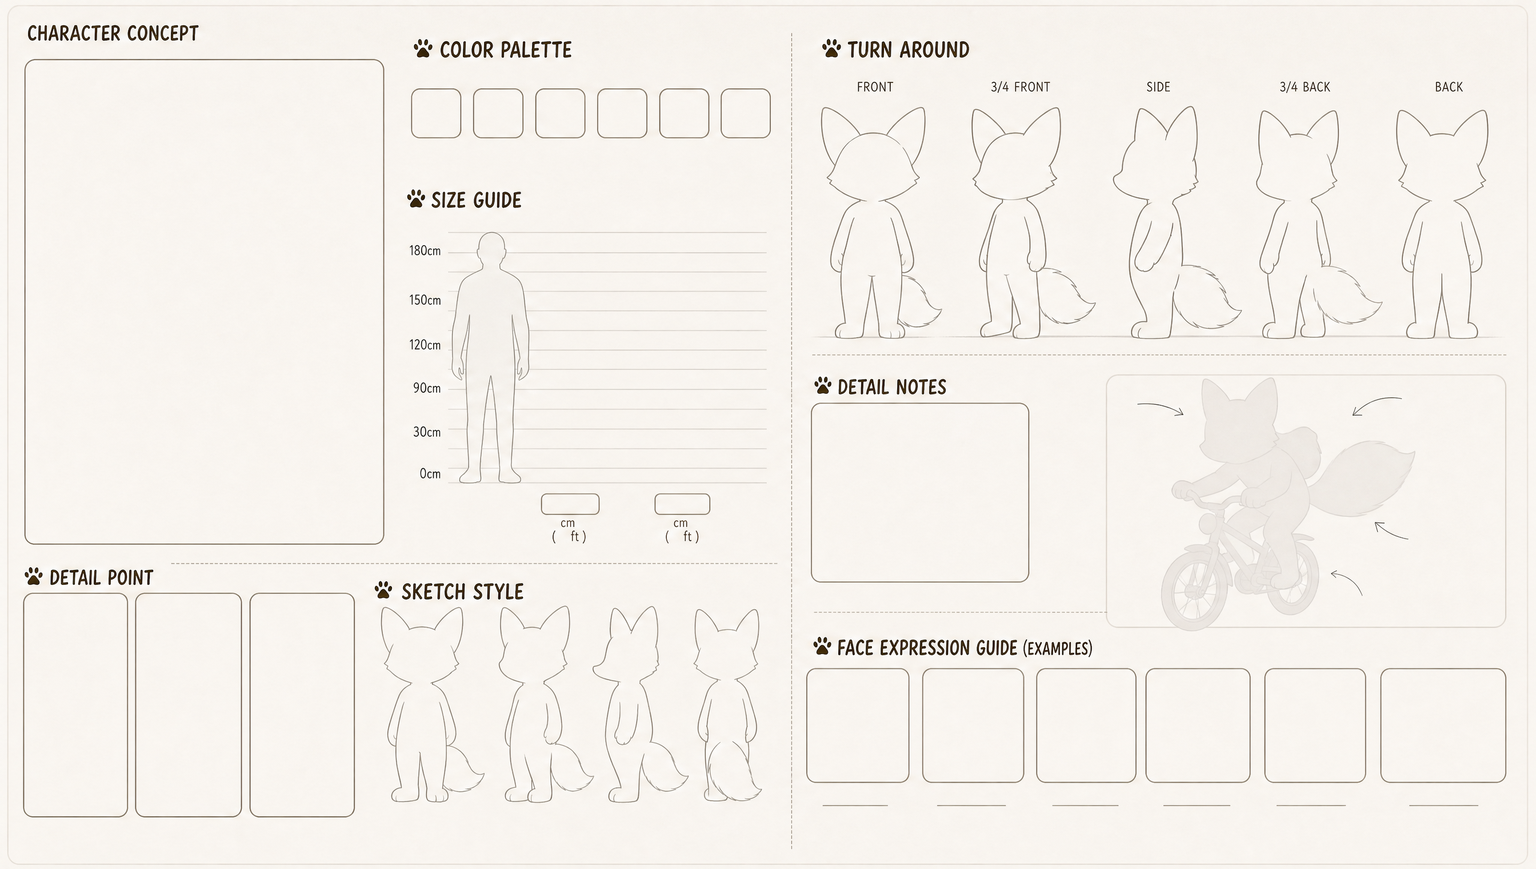
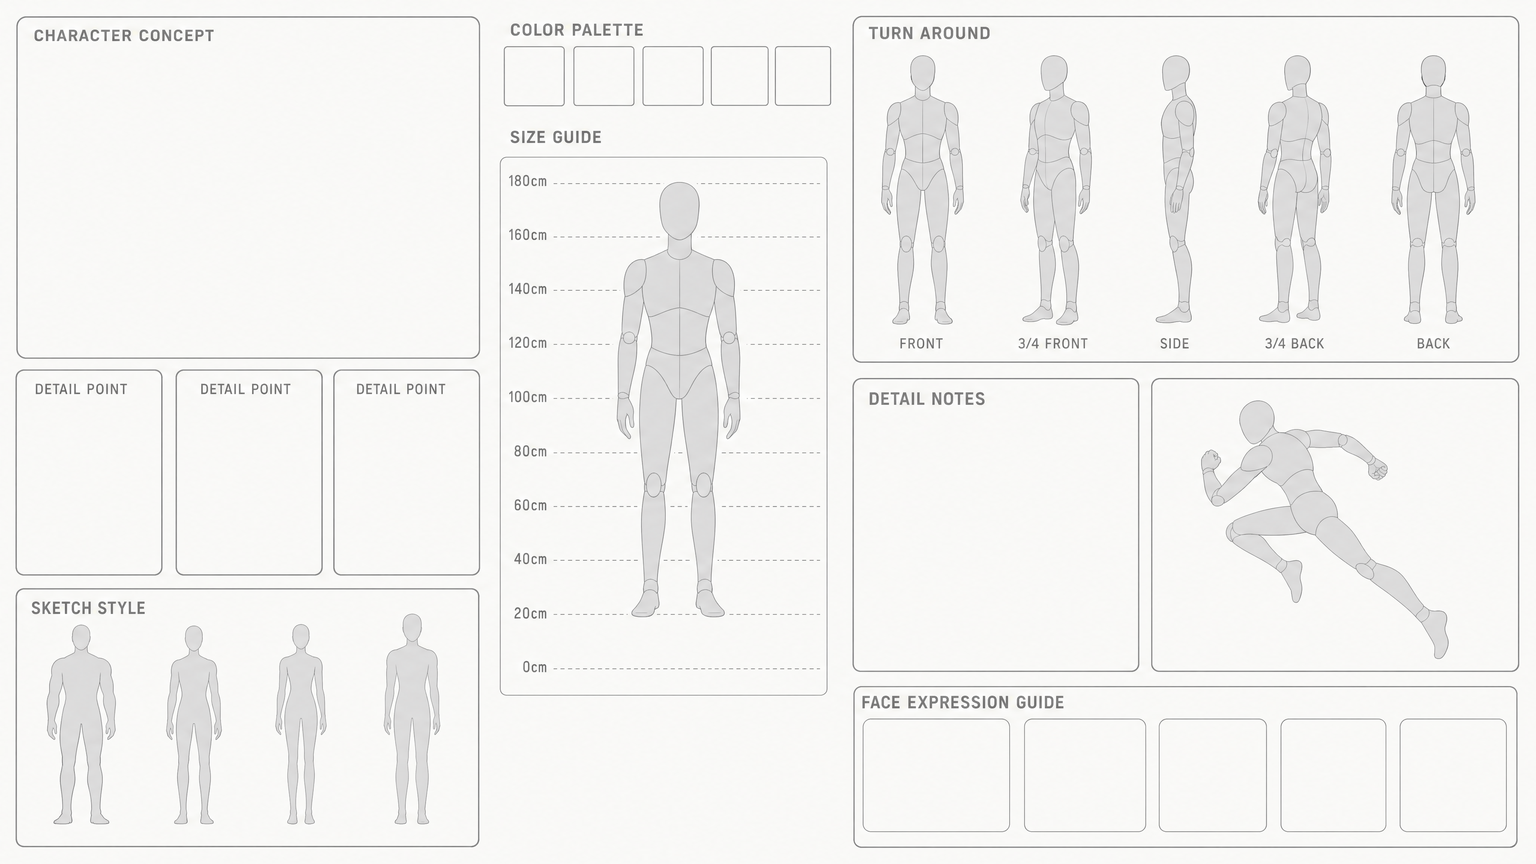
feat(artist): style-neutral character template v2 (de-anime the turnaround)
캐릭터 턴어라운드가 애니풍으로 치우치는 1순위 원인이던 템플릿의 스타일 앵커
(치비 여우 마스코트·발바닥 아이콘·손글씨 폰트)를 제거 — GPT Image I2I 로
사용자가 제작한 스타일 중립판(목각 마네킹 + 기술 산세리프)으로 교체.

- public/character-template.png: 3840×2160 원본 → 1536×864 리사이즈 교체
- portrait.ts: CHARACTER CONCEPT 박스 크롭 비율 재실측(레이아웃 변경)
  x 0.0135..0.3094 / y 0.0611..0.4102 (제목 텍스트 제외, 테두리 안쪽) —
  빈 템플릿 크롭 미리보기로 영역 검증
- docs/character-template-restyle-prompts.md: 진단·프롬프트·핸드오프 기록

생성 프롬프트가 열거하는 섹션 명단(character concept/color palette/size guide/
turnaround/detail notes/sketch style/face expression guide)은 v2 에 전부 유지됨.

diff --git a/src/lib/artist/portrait.ts b/src/lib/artist/portrait.ts
@@ -2,16 +2,19 @@
 //
 // 사람 캐릭터의 view_main 은 캐릭터 템플릿(public/character-template.png) 레이아웃을 채운
 // 와이드 모델시트다. 좌상단 CHARACTER CONCEPT 박스 내부를 크롭해 카드/칩용 대표 포트레이트로 쓴다.
-// 비율은 실제 생성 시트(1536×864) 실측 — 박스 내부(테두리 제외) x 34..372, y 66..530.
 // 시트가 템플릿 레이아웃을 유지하므로(I2I 프롬프트가 박스 고정 지시) 상대 좌표는 안정적이다.
+//
+// ⚠️ 템플릿을 교체하면 이 비율도 재실측할 것 — 좌표는 템플릿 v2(스타일 중립 마네킹판,
+//   2026-07-12) 원본 3840×2160 실측: 박스 테두리 x 41..1199 / y 41..896, 제목 텍스트 y 74..102
+//   → 내부(제목 아래) x 52..1188, y 132..886.
 import sharp from 'sharp'
 
 /** CHARACTER CONCEPT 박스 내부의 상대 좌표 (시트 W/H 에 대한 비율). */
 export const TURNAROUND_PORTRAIT_REGION = {
-  x0: 0.022,
-  y0: 0.076,
-  x1: 0.242,
-  y1: 0.613,
+  x0: 0.0135,
+  y0: 0.0611,
+  x1: 0.3094,
+  y1: 0.4102,
 } as const
 
 /**

diff --git a/docs/character-template-restyle-prompts.md b/docs/character-template-restyle-prompts.md
@@ -1,0 +1,64 @@
+# 캐릭터 템플릿 스타일 중립화 — GPT Image 프롬프트
+
+> 2026-07-12. 배경: 캐릭터 턴어라운드가 애니풍으로 치우치는 원인 진단 결과,
+> `public/character-template.png`의 치비 여우 마스코트·발바닥 아이콘·손글씨 폰트가
+> 강한 스타일 앵커로 작용(1순위). 템플릿을 스타일 중립(레이아웃 전용)으로 교체한다.
+>
+> **I2I 권장** — 레이아웃이 보존돼야 (1) 서버 포트레이트 크롭 상대좌표
+> (`src/lib/artist/portrait.ts`의 실측 비율)와 (2) 생성 프롬프트의 섹션 명단
+> (`buildCharacterTurnaroundPrompt`)이 그대로 유효하다. T2I는 레이아웃이 새로 나와
+> 크롭 좌표 재실측 필요(가능은 함 — Claude가 처리).
+
+---
+
+## 🅰️ I2I 프롬프트 (기존 템플릿 이미지 업로드 + 아래 프롬프트) — 추천
+
+```
+Restyle this character reference-sheet template into a completely style-neutral, professional studio version. This is a LAYOUT-ONLY edit — keep the exact same composition.
+
+KEEP (do not move or resize anything):
+- The exact layout, aspect ratio, and position/size of every section box, divider and panel
+- The same section headings with the same wording: CHARACTER CONCEPT, COLOR PALETTE, SIZE GUIDE, TURN AROUND (FRONT / 3/4 FRONT / SIDE / 3/4 BACK / BACK), DETAIL POINT, SKETCH STYLE, DETAIL NOTES, FACE EXPRESSION GUIDE
+- The off-white paper background and thin light-gray line borders
+- The neutral human silhouette in the SIZE GUIDE
+
+REPLACE:
+- Every cute fox mascot placeholder figure → a featureless neutral-gray human artist's mannequin silhouette (like a wooden drawing mannequin), in the SAME pose, position and size as the figure it replaces — turnaround row (front, 3/4 front, side, 3/4 back, back), sketch-style row, and the bicycle illustration (make it a mannequin in the same dynamic riding pose)
+- All paw-print icons next to headings → remove them (plain headings, no icons)
+- The rounded handwritten/comic font → a clean, neutral, technical sans-serif in uppercase, like an industrial spec sheet
+
+REMOVE:
+- Any cute, kawaii, chibi, anime or mascot styling, and any decorative doodles
+
+The result must be a monochrome (light gray on off-white), style-agnostic technical template that imposes NO art style on whoever fills it in. No added text, no new sections, no logos.
+```
+
+---
+
+## 🅱️ T2I 프롬프트 (백지 생성 — 레이아웃 달라짐, 크롭 좌표 재실측 필요)
+
+```
+A professional, style-neutral character model-sheet template, landscape 16:9, flat vector-style graphic design on an off-white paper background with thin light-gray line borders. Monochrome, no colors except light gray.
+
+Layout: left top — a large rounded rectangle panel titled CHARACTER CONCEPT; left bottom — three small vertical panels titled DETAIL POINT and a row of four featureless gray human mannequin silhouettes titled SKETCH STYLE. Center top — six small empty swatch squares titled COLOR PALETTE, and below it a SIZE GUIDE with horizontal height lines (180cm to 0cm) and one neutral human silhouette. Right top — a row of five featureless neutral-gray artist's mannequin silhouettes titled TURN AROUND, labeled FRONT, 3/4 FRONT, SIDE, 3/4 BACK, BACK. Right middle — an empty rounded panel titled DETAIL NOTES next to a panel with a mannequin in a dynamic action pose. Right bottom — six empty rounded squares in a row titled FACE EXPRESSION GUIDE.
+
+Typography: clean technical uppercase sans-serif, like an industrial specification sheet. No icons, no mascots, no decorations, no anime or chibi styling, no watermark. The template must impose no art style — purely structural.
+```
+
+---
+
+## 생성 후 핸드오프 (Claude 작업)
+
+1. 결과 파일 경로 전달 (예: `/home/user/Downloads/새템플릿.png`)
+2. Claude: 컨셉 박스 **크롭 좌표 검증/재실측** → 필요 시 `src/lib/artist/portrait.ts` 비율 갱신
+3. `public/character-template.png` 교체(리사이즈 포함) + 커밋·푸시
+4. (옵션 B, 권장) `buildCharacterTurnaroundPrompt`의 `"clean line art"` 제거 +
+   `"do NOT use anime/chibi/mascot style"` + design_tokens 스타일 강조 — 템플릿 교체와 병행 시 효과 최대
+
+## 참고
+
+- ChatGPT가 3:2(1536×1024)로 출력해 비율이 살짝 달라져도 OK — 크롭은 상대좌표라
+  레이아웃 구도만 유지되면 대응 가능.
+- 진단 요약(기여도): ① 템플릿 여우 마스코트/장식(시각 앵커) ② 프롬프트 "clean line art"
+  하드코딩 ③ 캐릭터 시트 장르의 모델 prior. 이 프로젝트 아트 디렉션은
+  `industrial_dystopian_noir · weathered_industrial · 8:1` — 애니와 정반대.